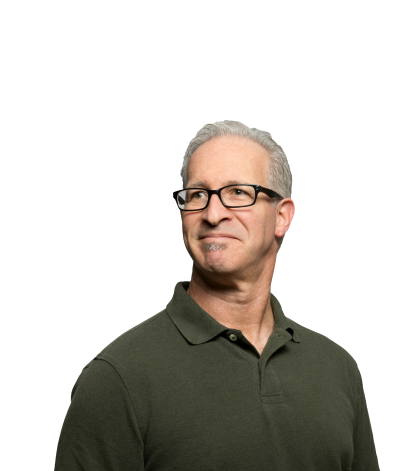
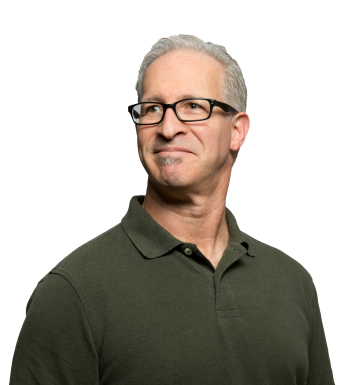
07.25

diff --git a/kumho/contents/ceo.html b/kumho/contents/ceo.html
@@ -136,34 +136,40 @@
                 <div class="cts_ceo"> 
                     <!-- 각 페이지 콘텐츠 클래스 네이밍 규칙
                         cts_페이지html파일명 (cts - contents 약자) -->
+                        <div class="wrapper">
                         <div class="photo_wrap">
                             <div class="photo"><img src="../images/contents/ceo_img1.png" alt="대표이사 사진"></div>
                             <div class="sign">
                                 <strong>금호건설 대표이사 사장 조원석</strong>
                                 <span><img src="../images/contents/ceo_sign.png" alt="조완석 서명"></div></span>
-                            <div class="wrapper"></div>
                         </div>
-                        <div class="txt_wrap">
-                            <div class="tit">
-                                <p>대한민국 대표 건설사 <strong>금호건설</strong></p>
-                            </div>
-                            <div class="txt">
-                                <p>금호건설은 1967년 역사를 시작하여 반세기가 넘는 시간 동안 대한민국 건설역사를 함께 만들어 온 국내 대표 건설사입니다. <br>
-                                    <br>
-                                    주거브랜드인 어울림, 리첸시아를 비롯하여 건축, 토목, 플랜트, 환경에 이르기까지 시공 전 분야에서 다양한 포트폴리오를 구성하며 고객 만족과 함께 국가기반산업 확장에 기여하기 위해 노력해왔습니다.
-                                    특히 공항 및 공항 기반시설 공사에서는 타의 추종을 불허하는 기술력으로 국내 대표적인 시설을 성공적으로 완공하였으며 두바이 신공항 및 아부다비 관제탑 등 해외에서도 괄목할만한 성과를 거두며 해외시장 관계자들에게 극찬을 받은 바 있습니다.
-                                    또한 미래의 블루오션인 수처리 사업 분야에서도 고유의 기술력으로 시장을 선도하고 있으며, 플랜트 분야에서도 지속적인 수주와 기술투자를 진행하며 지속가능한 회사를 만드는 데 주력하고 있습니다.
-                                    <br><br><br><br>
-                                    </strong>건실하고 건강한 금호건설<strong>
-                                        <br><br>
-                                    사랑하는 고객 여러분.<br>
-                                    저희는 시대변화에 발맞추어 모든 임직원들이 상호간에 공감과 감동을 교류할 수 있는 조직문화를 구축하는데 노력하고 있습니다.이를 통해 임직원 각자가 자발적으로 성과를 만들고 이것이 모여 더욱 “건실하고 강한 금호건설”로 성장할 것입니다.변함없는 믿음과 사랑으로 지켜봐 주셨으면 합니다.
-                                    더불어 잊지 않고 사회에 책임을 다하는 기업이 되도록 주변 이웃을 돌아보는 노력 또한 잊지 않겠습니다.<br>
-                                    <br><br>
-                                    앞으로도 여러분의 응원과 격려를 부탁드립니다. 감사합니다.
-                                    </p>
+                            <div class="txt_wrap">
+                                <div class="tit">
+                                    <p>대한민국 대표 건설사 <strong>금호건설</strong></p>
+                                </div>
+                                <div class="txt">
+                                    <p>금호건설은 1967년 역사를 시작하여 반세기가 넘는 시간 동안 대한민국 건설역사를 함께 만들어 온 국내 대표 건설사입니다. <br>
+                                        <br>
+                                        주거브랜드인 어울림, 리첸시아를 비롯하여 건축, 토목, 플랜트, 환경에 이르기까지 시공 전 분야에서 다양한 포트폴리오를 구성하며 고객 만족과 함께 국가기반산업 확장에 기여하기 위해 노력해왔습니다.<br>
+                                        특히 공항 및 공항 기반시설 공사에서는 타의 추종을 불허하는 기술력으로 국내 대표적인 시설을 성공적으로 완공하였으며 두바이 신공항 및 아부다비 관제탑 등 해외에서도 괄목할만한 성과를 거두며 해외시장 관계자들에게 극찬을 받은 바 있습니다.<br>
+                                        또한 미래의 블루오션인 수처리 사업 분야에서도 고유의 기술력으로 시장을 선도하고 있으며, 플랜트 분야에서도 지속적인 수주와 기술투자를 진행하며 지속가능한 회사를 만드는 데 주력하고 있습니다.</p>
+                                </div>
+                                <div class="tit">
+                                    <p>건실하고 건강한 <strong>금호건설</strong></p>
+                                </div>
+                                <div class="txt">
+                                        <p>
+                                        사랑하는 고객 여러분.<br>
+                                        저희는 시대변화에 발맞추어 모든 임직원들이 상호간에 공감과 감동을 교류할 수 있는 조직문화를 구축하는데 노력하고 있습니다.<br>
+                                        이를 통해 임직원 각자가 자발적으로 성과를 만들고 이것이 모여 더욱 “건실하고 강한 금호건설”로 성장할 것입니다.<br>
+                                        변함없는 믿음과 사랑으로 지켜봐 주셨으면 합니다.<br>
+                                        더불어 잊지 않고 사회에 책임을 다하는 기업이 되도록 주변 이웃을 돌아보는 노력 또한 잊지 않겠습니다.<br>
+                                        <br>
+                                        앞으로도 여러분의 응원과 격려를 부탁드립니다. 감사합니다.</p>
+                                </div>
                             </div>
                         </div>
+                    </div>
                 </div>
             </div>
         </main>

diff --git a/kumho/css/sub.css b/kumho/css/sub.css
@@ -11,21 +11,79 @@
 
 /* 회사소개 - ceo인사말 */
 .cts_ceo {
-padding: 78px 0 139px 0;
-}
-.cts_ceo .wrapper {
-
+    padding: 50px 0 100px 0;
 }
 .cts_ceo .photo_wrap {
-    overflow: hidden;
-    font-size: 0;
-    line-height: 0;
+    position: relative;
 }
-.cts_ceo .photo_wrap img {
-    width: 100%;
-    height: 100%;
-    object-fit: cover;
+.cts_ceo .photo_wrap::before {
+    position: absolute;
+    right: -400px;
+    bottom: 6px;
+    width: 2080px;
+    height: 417px;
+    background-color: #f4f4f4;
+    content: "";
+    z-index: -1;
 }
-.cts_ceo .txt_wrap {
-    
+.cts_ceo .photo_wrap .sign {
+    position: absolute;
+    right: 300px;
+    bottom: 44px;
+    width: 414px;
+    height: 77px;
+    content: "";
+}
+.cts_ceo .photo_wrap .sign strong {
+    font-weight: 600;
+    font-size: 20px;
+}
+.cts_ceo .txt_wrap .tit {
+    margin: 48px 0 8px 0;
+    font-weight: 600;
+    font-size: 20px;
+}
+.cts_ceo .txt_wrap .tit strong {
+    color: #3675B0;
+}
+.cts_ceo .txt_wrap .txt {
+    line-height: 1.4;
+}
+.cts_ceo .txt_wrap .txt strong {
+    font-weight: 600;
+    font-size: 20px;
+}
+@media screen and (max-width:1300px) {
+
+}
+@media screen and (max-width:1024px) {
+    .cts_ceo .photo_wrap .sign {
+        right: 150px;
+        width: 350px;
+    }
+}
+@media screen and (max-width:768px) {
+    .cts_ceo {
+        padding: 50px 0 250px 0;
+    }
+    .cts_ceo .photo_wrap .sign {
+        bottom: -600px;
+        right: -97px;
+        display: block;
+    }
+    .cts_ceo .photo_wrap span {
+        margin-left: 100px;
+    }
+    .cts_ceo .photo_wrap {
+        width: auto;
+        margin: 0 auto;
+    }
+    .cts_ceo .txt_wrap .txt {
+        font-size: 13px;
+    }
+}
+@media screen and (max-width:400px) {
+    .cts_ceo .photo_wrap .sign {
+        bottom: -720px;
+    }
 }

diff --git a/kumho/contents/history.html b/kumho/contents/history.html
@@ -130,13 +130,27 @@
                 <div class="sub_title">
                     <div class="wrapper">
                         <h2>연혁</h2> <!--현재메뉴명-->
-                        <p>금호건설의 집념과 도전의 반세기 역사를 소개합니다.</p>
+                        <p>KUMHO E&C History</p>
                     </div>
                 </div>
-                <div class="cts_ceo"> 
+                <div class="cts_tistory"> 
                     <!-- 각 페이지 콘텐츠 클래스 네이밍 규칙
                         cts_페이지html파일명 (cts - contents 약자) -->
+                        <div class="wrapper">
+                            <div class="tab_area">
+                                <div class="tab_btn">
+                                    <ul role="tablist">
+                                        <li id="tab_01" aria-selected="true" aria-controls="panel_01" class="active"><button><span>현재 ~ 2011<i class="active"></span></button></li>
+                                        <li id="tab_02" aria-selected="false" aria-controls="panel_02"><button class="btn-tab">2010~2001</button></li>
+                                    </ul>
+                                </div><!--tab_btn-->
+                                <div class="tab_cnt">
+                                    <div id="panel_01" role="tabpanel" aria-labelledby="tab_01">
 
+                                    </div>
+                                </div><!--tab_cnt-->
+                            </div><!--tab_area-->
+                        </div><!--wrapper-->
                 </div>
             </div>
         </main>
